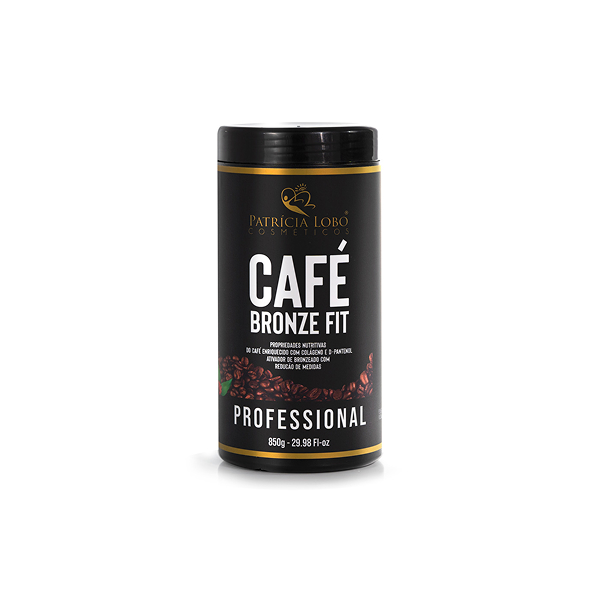
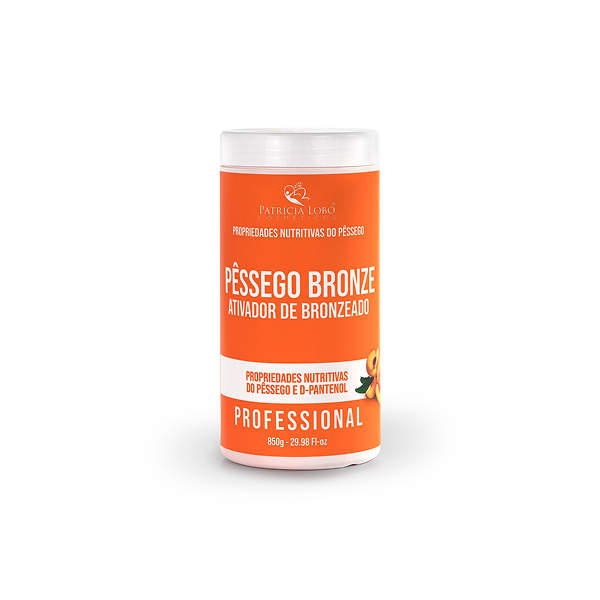
Start

Changed region(s): [[0.33, 0.18, 0.69, 0.81]]

diff --git a/index.html b/index.html
@@ -151,14 +151,15 @@
                 <!-- Produto 4 -->
                 <div class="product-card" data-category="Ativadores">
                     <div class="product-image">
-                        <img src="images/produto4.jpg" alt="Ativador Café Fit 850G">
+                        <img src="images/produto4.jpg" alt="Ativador Pêssego Bronze - 850G">
                     </div>
                     <div class="product-info">
-                        <h3>Ativador Café Fit - 850G</h3>
-                        <p>Ativador de bronzeado com redutor de medidas com propriedades
-                            nutritivas do café e ativos, foi formulado com extratos de
-                            cânfora, café, d-pantenol e colágeno, que deixará seu corpo com um
-                            bronzeado radiante e sua pele hidratada, macia e perfumada a café.</p>
+                        <h3>Ativador Pêssego Bronze - 850G</h3>
+                        <p>ativador de bronzeado com propriedades
+                            nutritivas do morango, chocolate ou pêssego, foram formulados
+                            com óleo de coco e ativos, d-pantenol e colágeno que deixarão
+                            seu corpo com um bronzeado radiante e sua pele hidratada, macia
+                            e suavemente perfumada.</p>
                         <a href="https://wa.me/5500000000000?text=Olá! Tenho interesse no Autobronzeador Spray" class="btn-product" target="_blank">
                             <i class="fab fa-whatsapp"></i> Comprar
                         </a>
@@ -372,7 +373,7 @@
                         <i class="fas fa-envelope"></i>
                         <div>
                             <h3>E-mail</h3>
-                            <p>contato@bronzellaglow.com.br</p>
+                            <p>COLOCAR O E-MAIL</p>
                         </div>
                     </div>
                     <div class="contact-item">
